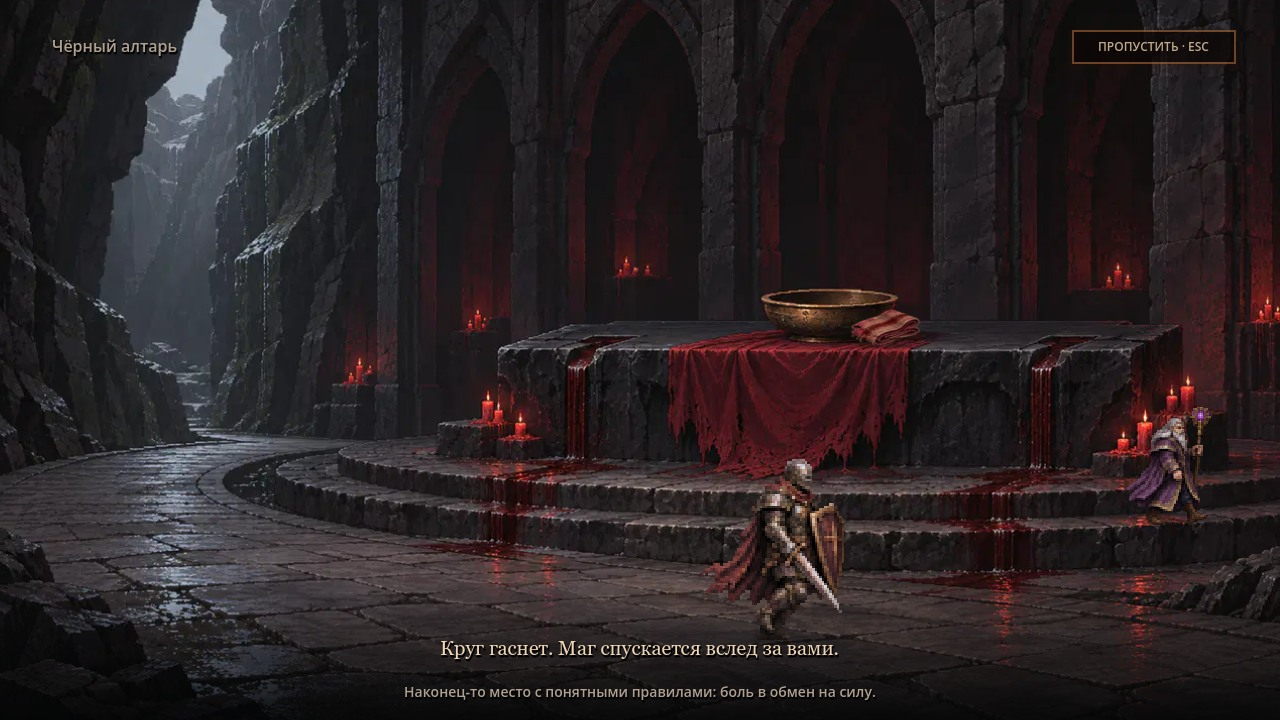
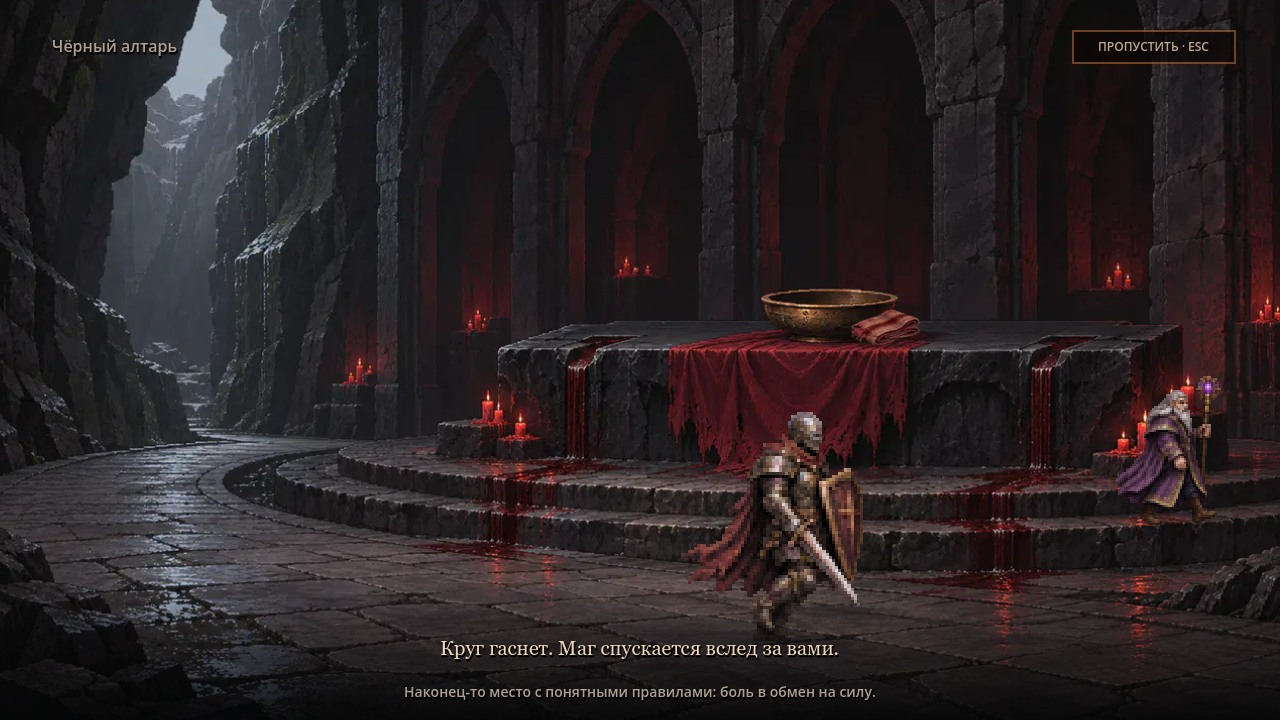
docs: show before-and-after Travel stature in all Batch 03 locations

Changed region(s): [[0.5312, 0.5806, 0.6875, 0.8556], [0.875, 0.5194, 0.9688, 0.7333]]

diff --git a/docs/qa/travel_batch03_review/README.md b/docs/qa/travel_batch03_review/README.md
@@ -1,12 +1,97 @@
-# Misdeal · Cinematic Travel Batch 03
+# Misdeal · Batch 03 · Масштаб фигур и окружения
 
-23 кадра из Godot для художественной проверки десяти локаций. Нажмите на кадр, чтобы открыть его в исходном размере **1280 × 720**. Под каждым кадром указаны исход и время с начала Travel.
+Десять сравнений «до и после» и 23 кадра с ключевыми исходами. Откройте любой кадр для просмотра в **1280 × 720**.
 
-[PR №119 с интеграцией](https://github.com/zampolit73/Misdeal/pull/119) · [Исходный арт-пакет №118](https://github.com/zampolit73/Misdeal/pull/118) · [RELEASE CI](https://github.com/zampolit73/Misdeal/actions/runs/44490296417) · [216 кадров и журнал всех исходов](https://github.com/zampolit73/Misdeal/actions/runs/44490296417/artifacts/14513467545)
+[PR №119](https://github.com/zampolit73/Misdeal/pull/119) · [Коммит исправления](https://github.com/zampolit73/Misdeal/commit/3558db137b4e2002cb6b675d7200b7bd3d91dc35) · [GitHub CI](https://github.com/zampolit73/Misdeal/actions/runs/44551061968)
 
-Кадры ниже сняты в Windows / Godot 4.7.2 Compatibility. В этом прогоне пять фонов взяты из более ранних экспортов тех же композиций. Прогон RELEASE CI на коммите `574e117` использовал все 97 финальных файлов из арт-пакета. Полная серия лежит в `visual/travel_batch03` внутри архива CI.
+Повторный прогон в Godot 4.7.2 Compatibility прошёл все 72 исхода и записал 216 кадров. Для пяти фонов в кадрах Windows использованы более ранние экспорты тех же композиций. В коммите сохранены исходные контрольные суммы всех десяти финальных фонов.
 
-В Godot откройте `scenes/dev/qa_hub.tscn` клавишей F6 и выберите **Travel → Batch 03 — 72 исхода**. Стрелки меняют исход, 1/2/3 выбирают доступный состав отряда, P ставит сцену на паузу, R запускает её заново, Esc пропускает переход. [Инструкция и контракт проверки](https://github.com/zampolit73/Misdeal/blob/574e11767feddc0a767375cf347d1bcfc0b42084/docs/TRAVEL_BATCH03_REVIEW.md)
+## Сравнение масштаба в десяти локациях
+
+### Чёрный алтарь
+
+Маг и рыцарь относительно алтаря, площадки и ступеней.
+
+| До исправления | После исправления |
+| :---: | :---: |
+| [![Чёрный алтарь до](before/01_black_altar_rescue_blood_115.jpg)](before/01_black_altar_rescue_blood_115.jpg) | [![Чёрный алтарь после](frames/01_black_altar_rescue_blood_115.jpg)](frames/01_black_altar_rescue_blood_115.jpg) |
+
+### Закованный пленник
+
+Идущий отряд и пленник у решётки.
+
+| До исправления | После исправления |
+| :---: | :---: |
+| [![Закованный пленник до](before/10_chained_prisoner_abandon_250.jpg)](before/10_chained_prisoner_abandon_250.jpg) | [![Закованный пленник после](frames/10_chained_prisoner_abandon_250.jpg)](frames/10_chained_prisoner_abandon_250.jpg) |
+
+### Джек
+
+Лежащий пёс под балкой и следопыт на тропе.
+
+| До исправления | После исправления |
+| :---: | :---: |
+| [![Джек до](before/17_jack_passed_250.jpg)](before/17_jack_passed_250.jpg) | [![Джек после](frames/17_jack_passed_250.jpg)](frames/17_jack_passed_250.jpg) |
+
+### Шепчущий колодец
+
+Маг поднимается в масштабе площадки у колодца. Кладка закрывает нижнюю часть тела.
+
+| До исправления | После исправления |
+| :---: | :---: |
+| [![Шепчущий колодец до](before/19_whispering_well_rescue_blood_115.jpg)](before/19_whispering_well_rescue_blood_115.jpg) | [![Шепчущий колодец после](frames/19_whispering_well_rescue_blood_115.jpg)](frames/19_whispering_well_rescue_blood_115.jpg) |
+
+### Последний привал
+
+Раненый в укрытии и следопыт у скамьи.
+
+| До исправления | После исправления |
+| :---: | :---: |
+| [![Последний привал до](before/29_last_camp_abandon_loot_250.jpg)](before/29_last_camp_abandon_loot_250.jpg) | [![Последний привал после](frames/29_last_camp_abandon_loot_250.jpg)](frames/29_last_camp_abandon_loot_250.jpg) |
+
+### Пепельный привал
+
+Сидящий NPC у камней и идущий персонаж.
+
+| До исправления | После исправления |
+| :---: | :---: |
+| [![Пепельный привал до](before/36_ash_rest_abandon_250.jpg)](before/36_ash_rest_abandon_250.jpg) | [![Пепельный привал после](frames/36_ash_rest_abandon_250.jpg)](frames/36_ash_rest_abandon_250.jpg) |
+
+### Костяная пошлина
+
+Страж у прилавка и отряд в проходе.
+
+| До исправления | После исправления |
+| :---: | :---: |
+| [![Костяная пошлина до](before/41_bone_tax_gold_250.jpg)](before/41_bone_tax_gold_250.jpg) | [![Костяная пошлина после](frames/41_bone_tax_gold_250.jpg)](frames/41_bone_tax_gold_250.jpg) |
+
+### Карта без лица
+
+Высота стола относительно героя и габариты карты на сукне.
+
+| До исправления | После исправления |
+| :---: | :---: |
+| [![Карта без лица до](before/45_faceless_card_reveal_gold_250.jpg)](before/45_faceless_card_reveal_gold_250.jpg) | [![Карта без лица после](frames/45_faceless_card_reveal_gold_250.jpg)](frames/45_faceless_card_reveal_gold_250.jpg) |
+
+### Лунная печать
+
+Высота персонажа относительно постамента и размер печати.
+
+| До исправления | После исправления |
+| :---: | :---: |
+| [![Лунная печать до](before/60_moon_seal_keep_250.jpg)](before/60_moon_seal_keep_250.jpg) | [![Лунная печать после](frames/60_moon_seal_keep_250.jpg)](frames/60_moon_seal_keep_250.jpg) |
+
+### Склеп отзвуков
+
+Высота персонажа у саркофага и дверного проёма.
+
+| До исправления | После исправления |
+| :---: | :---: |
+| [![Склеп отзвуков до](before/64_echo_crypt_relic_kept_250.jpg)](before/64_echo_crypt_relic_kept_250.jpg) | [![Склеп отзвуков после](frames/64_echo_crypt_relic_kept_250.jpg)](frames/64_echo_crypt_relic_kept_250.jpg) |
+
+
+## Исходы после исправления
+
+В каждой подборке указано время с начала перехода. В Godot откройте `scenes/dev/qa_hub.tscn` клавишей F6 → **Travel → Batch 03 — 72 исхода**. [Инструкция](https://github.com/zampolit73/Misdeal/blob/3558db137b4e2002cb6b675d7200b7bd3d91dc35/docs/TRAVEL_BATCH03_REVIEW.md)
 
 ## Чёрный алтарь
 
